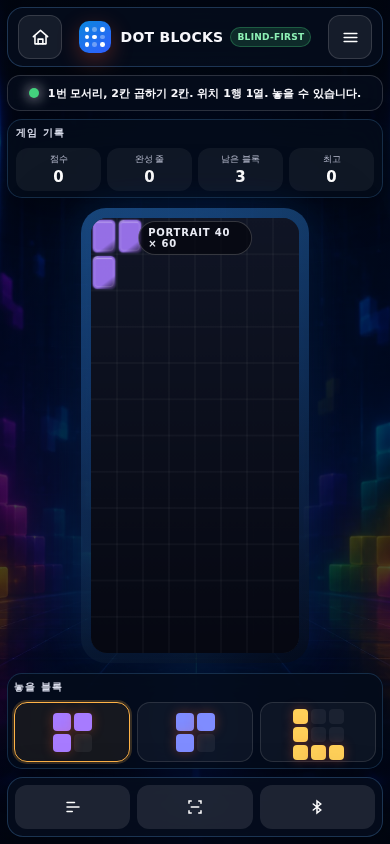
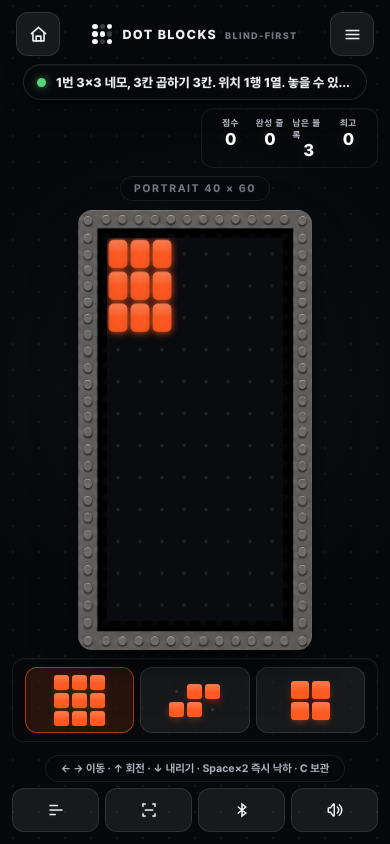
fix: stabilize puzzle tray and standalone TTS

diff --git a/index.html b/index.html
@@ -219,15 +219,16 @@
   .portrait-badge[data-scan="1"]{border-color:rgb(255 91 34 / 45%);color:#ffc3a6}
 
   .tray{display:grid;gap:7px}
-  .tray-btn{width:100%;min-height:52px;display:grid;grid-template-columns:40px 1fr;align-items:center;text-align:left;
-    padding:7px 9px;gap:10px;border-radius:12px}
+  .tray-btn{width:100%;min-height:66px;display:grid;grid-template-columns:60px minmax(0,1fr);align-items:center;text-align:left;
+    padding:7px 10px;gap:12px;border-radius:12px;overflow:hidden}
   .tray-btn:hover:not(:disabled){transform:translateY(-1px);border-color:rgb(255 255 255 / 23%);background-color:rgb(255 255 255 / 11%)}
   .tray-btn:active:not(:disabled){transform:none}
   .tray-btn[aria-current="true"]{border-color:rgb(255 91 34 / 55%);background:rgb(255 91 34 / 14%)}
   .tray-btn:disabled{opacity:.32;cursor:not-allowed}
-  .tray-mini{height:38px;display:grid;place-items:center}
-  .tray-name{font-size:12px;font-weight:800}
-  .tray-hint{display:block;margin-top:3px;font-size:10px;font-weight:600;color:var(--ink-muted)}
+  .tray-mini{width:60px;height:54px;display:grid;place-items:center;overflow:hidden}
+  .tray-btn>span:last-child{min-width:0}
+  .tray-name{display:block;overflow:hidden;text-overflow:ellipsis;white-space:nowrap;font-size:12px;font-weight:800}
+  .tray-hint{display:block;margin-top:3px;overflow:hidden;text-overflow:ellipsis;white-space:nowrap;font-size:10px;font-weight:600;color:var(--ink-muted)}
   .pin-preview-toggle{width:100%;margin-top:4px;padding-inline:12px;color:#c6cbd2;font-size:12px}
 
   .helptext{font-size:12px;font-weight:500;line-height:1.65;color:var(--ink-secondary)}
@@ -373,7 +374,8 @@
     .game-panel{grid-column:1 / -1;grid-row:2;justify-self:center;width:100%;min-height:0}
     #trayCard{grid-column:1 / -1;grid-row:3}
     .tray{grid-template-columns:repeat(3,1fr);gap:6px}
-    .tray-btn{display:block;text-align:center;min-height:48px;padding:6px}
+    .tray-btn{display:block;text-align:center;min-height:64px;padding:6px}
+    .tray-mini{width:100%;height:52px}
     .tray-btn .tray-name,.tray-btn .tray-hint{display:none}
     .play-help{margin-top:5px;margin-bottom:6px}
     .controls{gap:6px;flex-wrap:nowrap;width:100%}
@@ -530,6 +532,10 @@
 <script>
 (function(){
   'use strict';
+
+  if(window.parent===window&&window.SUPERDOT_TTS&&SUPERDOT_TTS.config){
+    SUPERDOT_TTS.config({serverFirst:false,retry:false});
+  }
 
   const PORTRAIT_W=40,PORTRAIT_H=60,HW_W=60,HW_H=40;
   const DROP_W=10,DROP_H=20,PUZZLE_W=8,PUZZLE_H=12;

diff --git a/QA.md b/QA.md
@@ -1,5 +1,19 @@
 # DOT BLOCKS Blind-first QA
 
+## 퍼즐 트레이 레이아웃 · 슈퍼닷 TTS — 검증 결과
+
+- 퍼즐 모드 `놓을 블록` 트레이를 1440×900, 900×700, 562×620, 390×844에서 재검수
+- `.mini` 실제 바운딩 박스 기준으로 프리뷰-텍스트 겹침 0건, 버튼 외부 이탈 0건
+- 네 뷰포트 모두 문서 오버플로우 가로·세로 0, 실패 요청 0건, `pageerror` 0건, 콘솔 에러 0건
+- 인트로, 낙하 시작, 퍼즐 시작, 설정 서랍을 1440×900, 900×700, 390×844에서 재검수 —
+  본 화면 주요 UI의 뷰포트 외부 이탈 0건. 설정 서랍 내부 카드는 `overflow:auto` 영역 안에서
+  아래로 이어지는 정상 스크롤 콘텐츠로 확인
+- 기본 음성 안내 방식은 `superdot`; 슈퍼닷 모드에서 `status[aria-live]=off`,
+  `criticalLive[aria-live]=off`, `criticalLive[role]=status` 확인
+- 스텁 주입 검수에서 `SUPERDOT_TTS === TW_TTS`, `setEnabled(true)`, `setLang('ko')`,
+  게임 시작 안내 `speak()` 호출 확인
+- 단독 실행에서는 슈퍼닷 TTS 코어를 브라우저 음성 우선으로 설정해 없는 서버 `/api/tts`를 선시도하지 않음
+
 ## 닷패드 기능키 매핑 감사
 
 SDK 모듈을 실제로 로드해 `KeyCodes` 실물과 대조했습니다. 하드웨어 없이 확인 가능한 범위는

diff --git a/CHANGELOG.md b/CHANGELOG.md
@@ -1,5 +1,12 @@
 # Changelog
 
+## 퍼즐 트레이 레이아웃·슈퍼닷 TTS 검수 보강
+
+- 퍼즐 모드의 `놓을 블록` 트레이에서 3×3·지그재그 미니 블록이 이름/설명 텍스트를 침범하지 않도록
+  프리뷰 슬롯과 버튼 높이를 실제 최대 미니어처 크기에 맞춰 고정
+- 단독 실행에서는 슈퍼닷 TTS 코어가 없는 서버 `/api/tts`를 먼저 시도하지 않도록 브라우저 음성 우선으로 설정
+- 데스크톱·태블릿·좁은 화면·모바일 뷰포트에서 트레이 겹침, 문서 오버플로우, 콘솔 에러를 재검수
+
 ## 인트로 배경 소스 교체
 
 - 게임 진입 인트로 배경을 새 `intro-bg.png` 소스로 교체하고, 기존 CSS 계약에 맞춰
